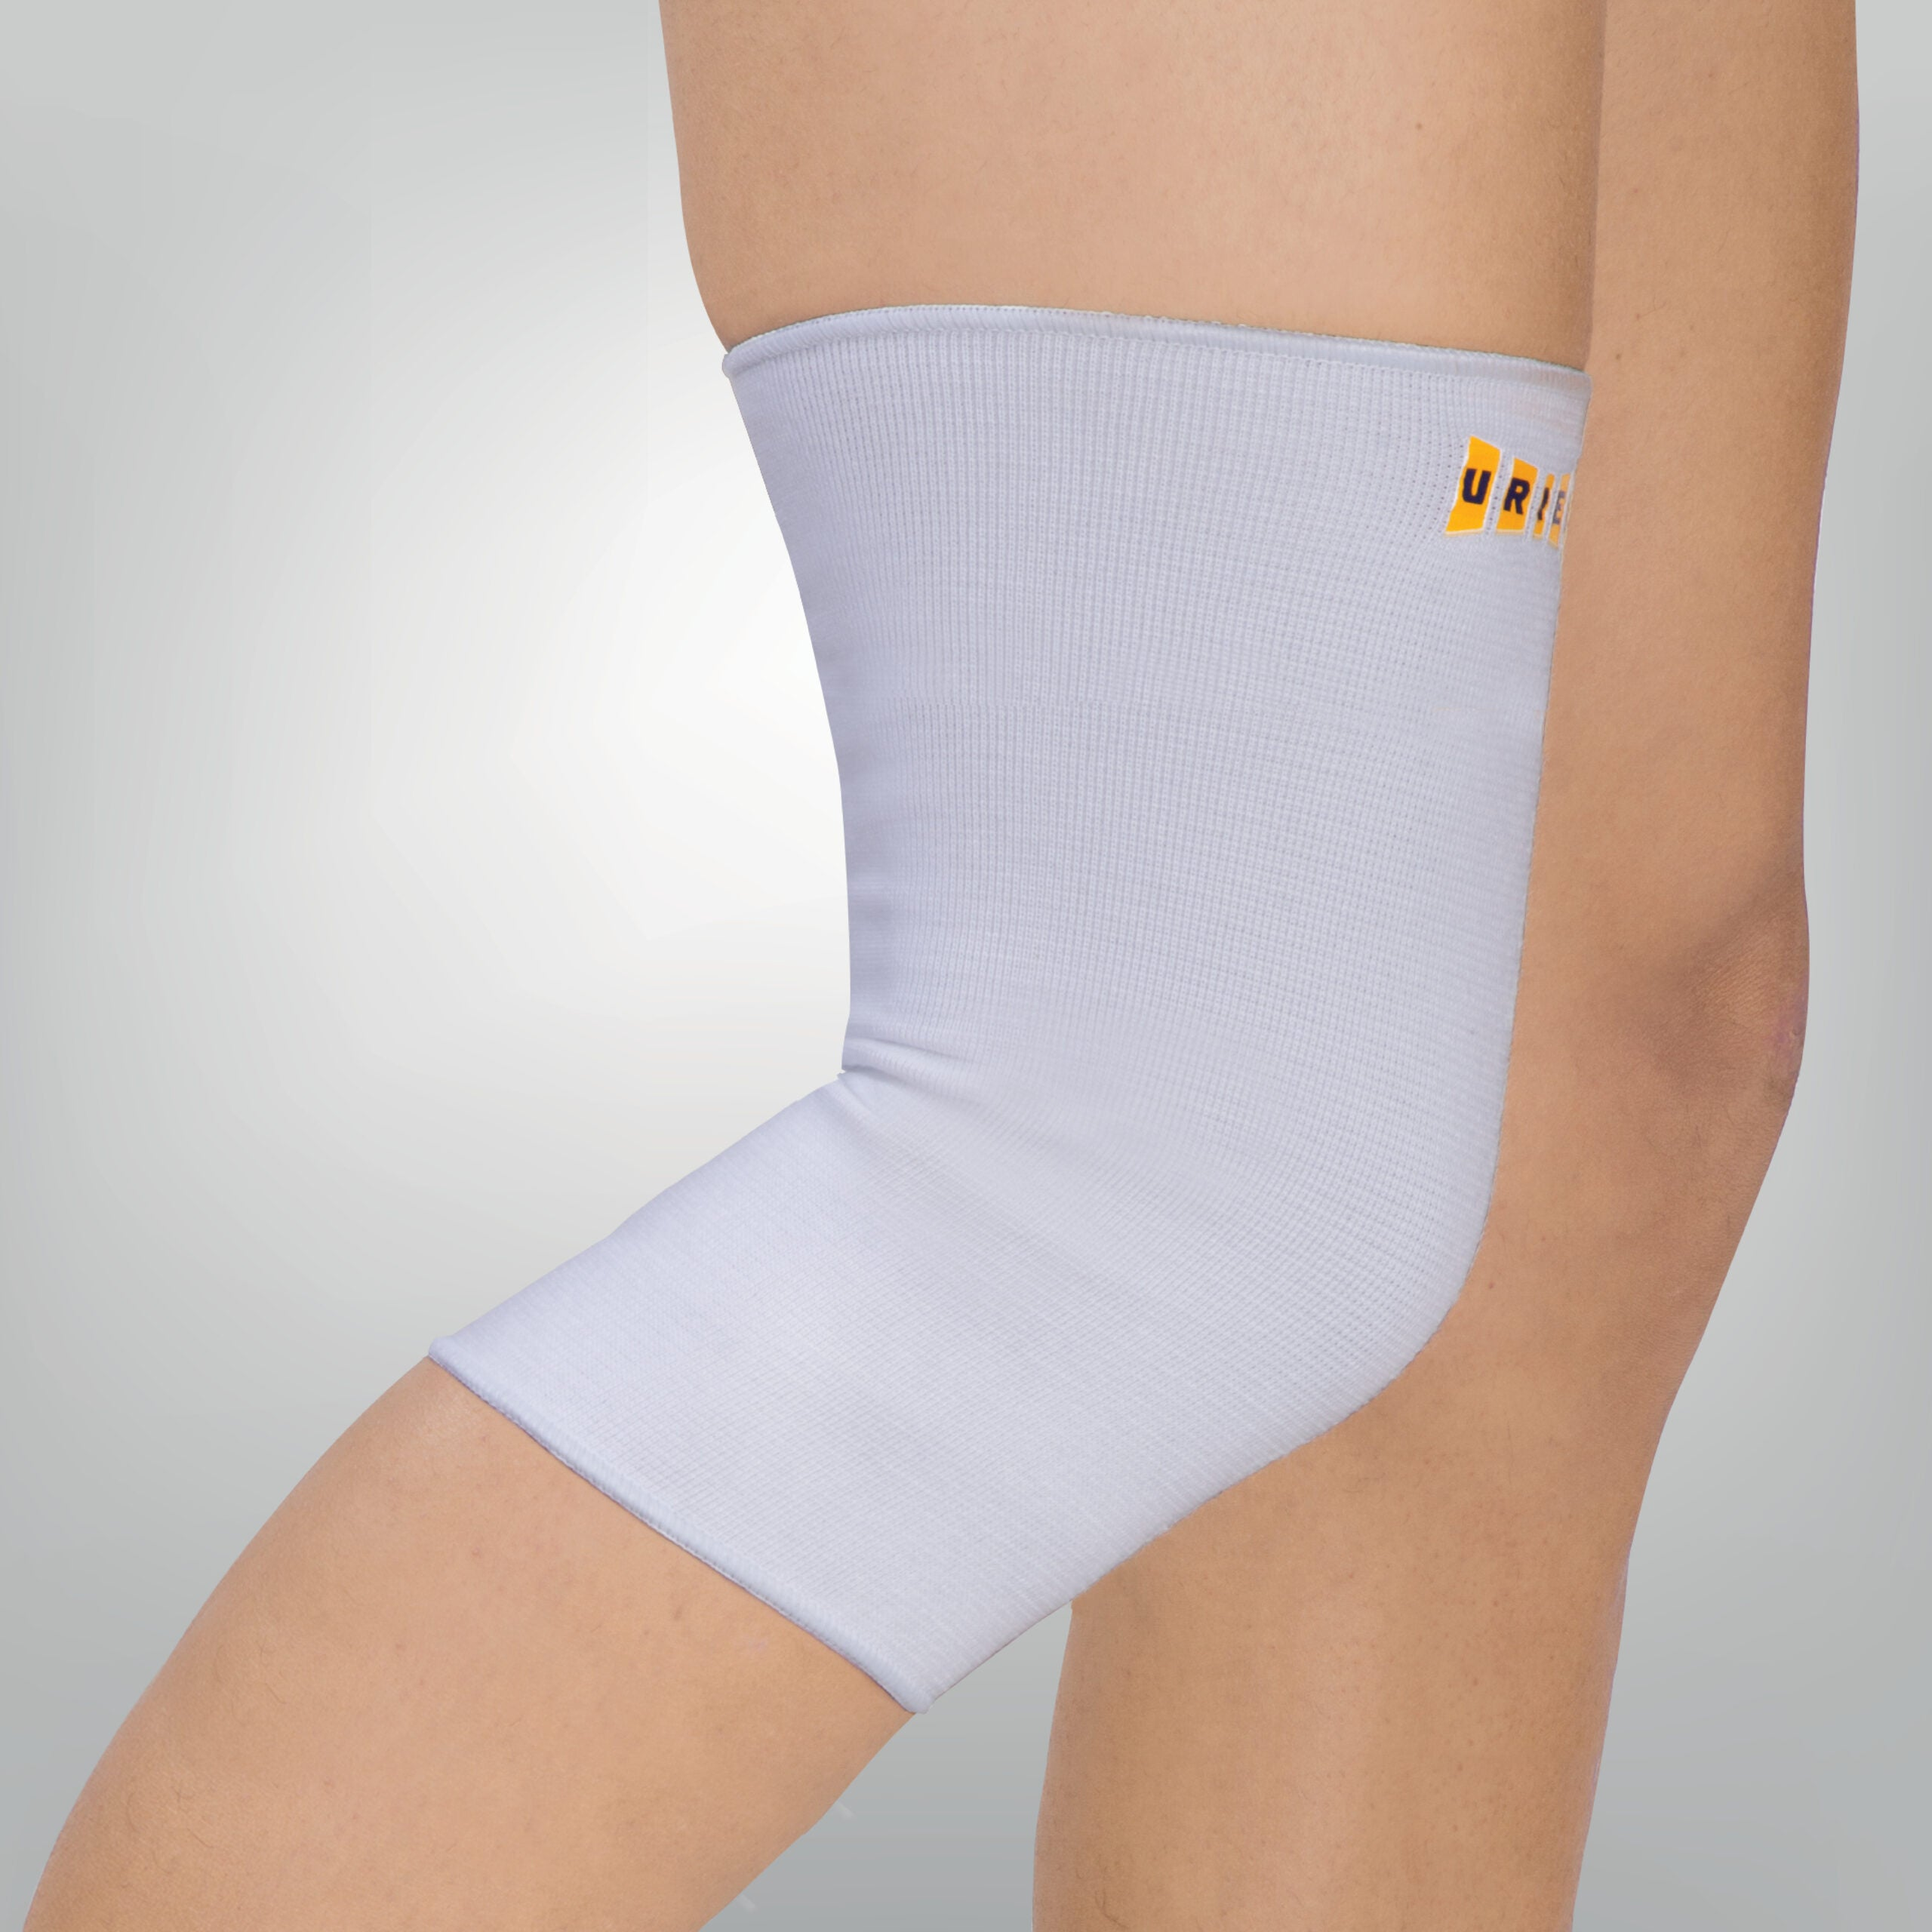
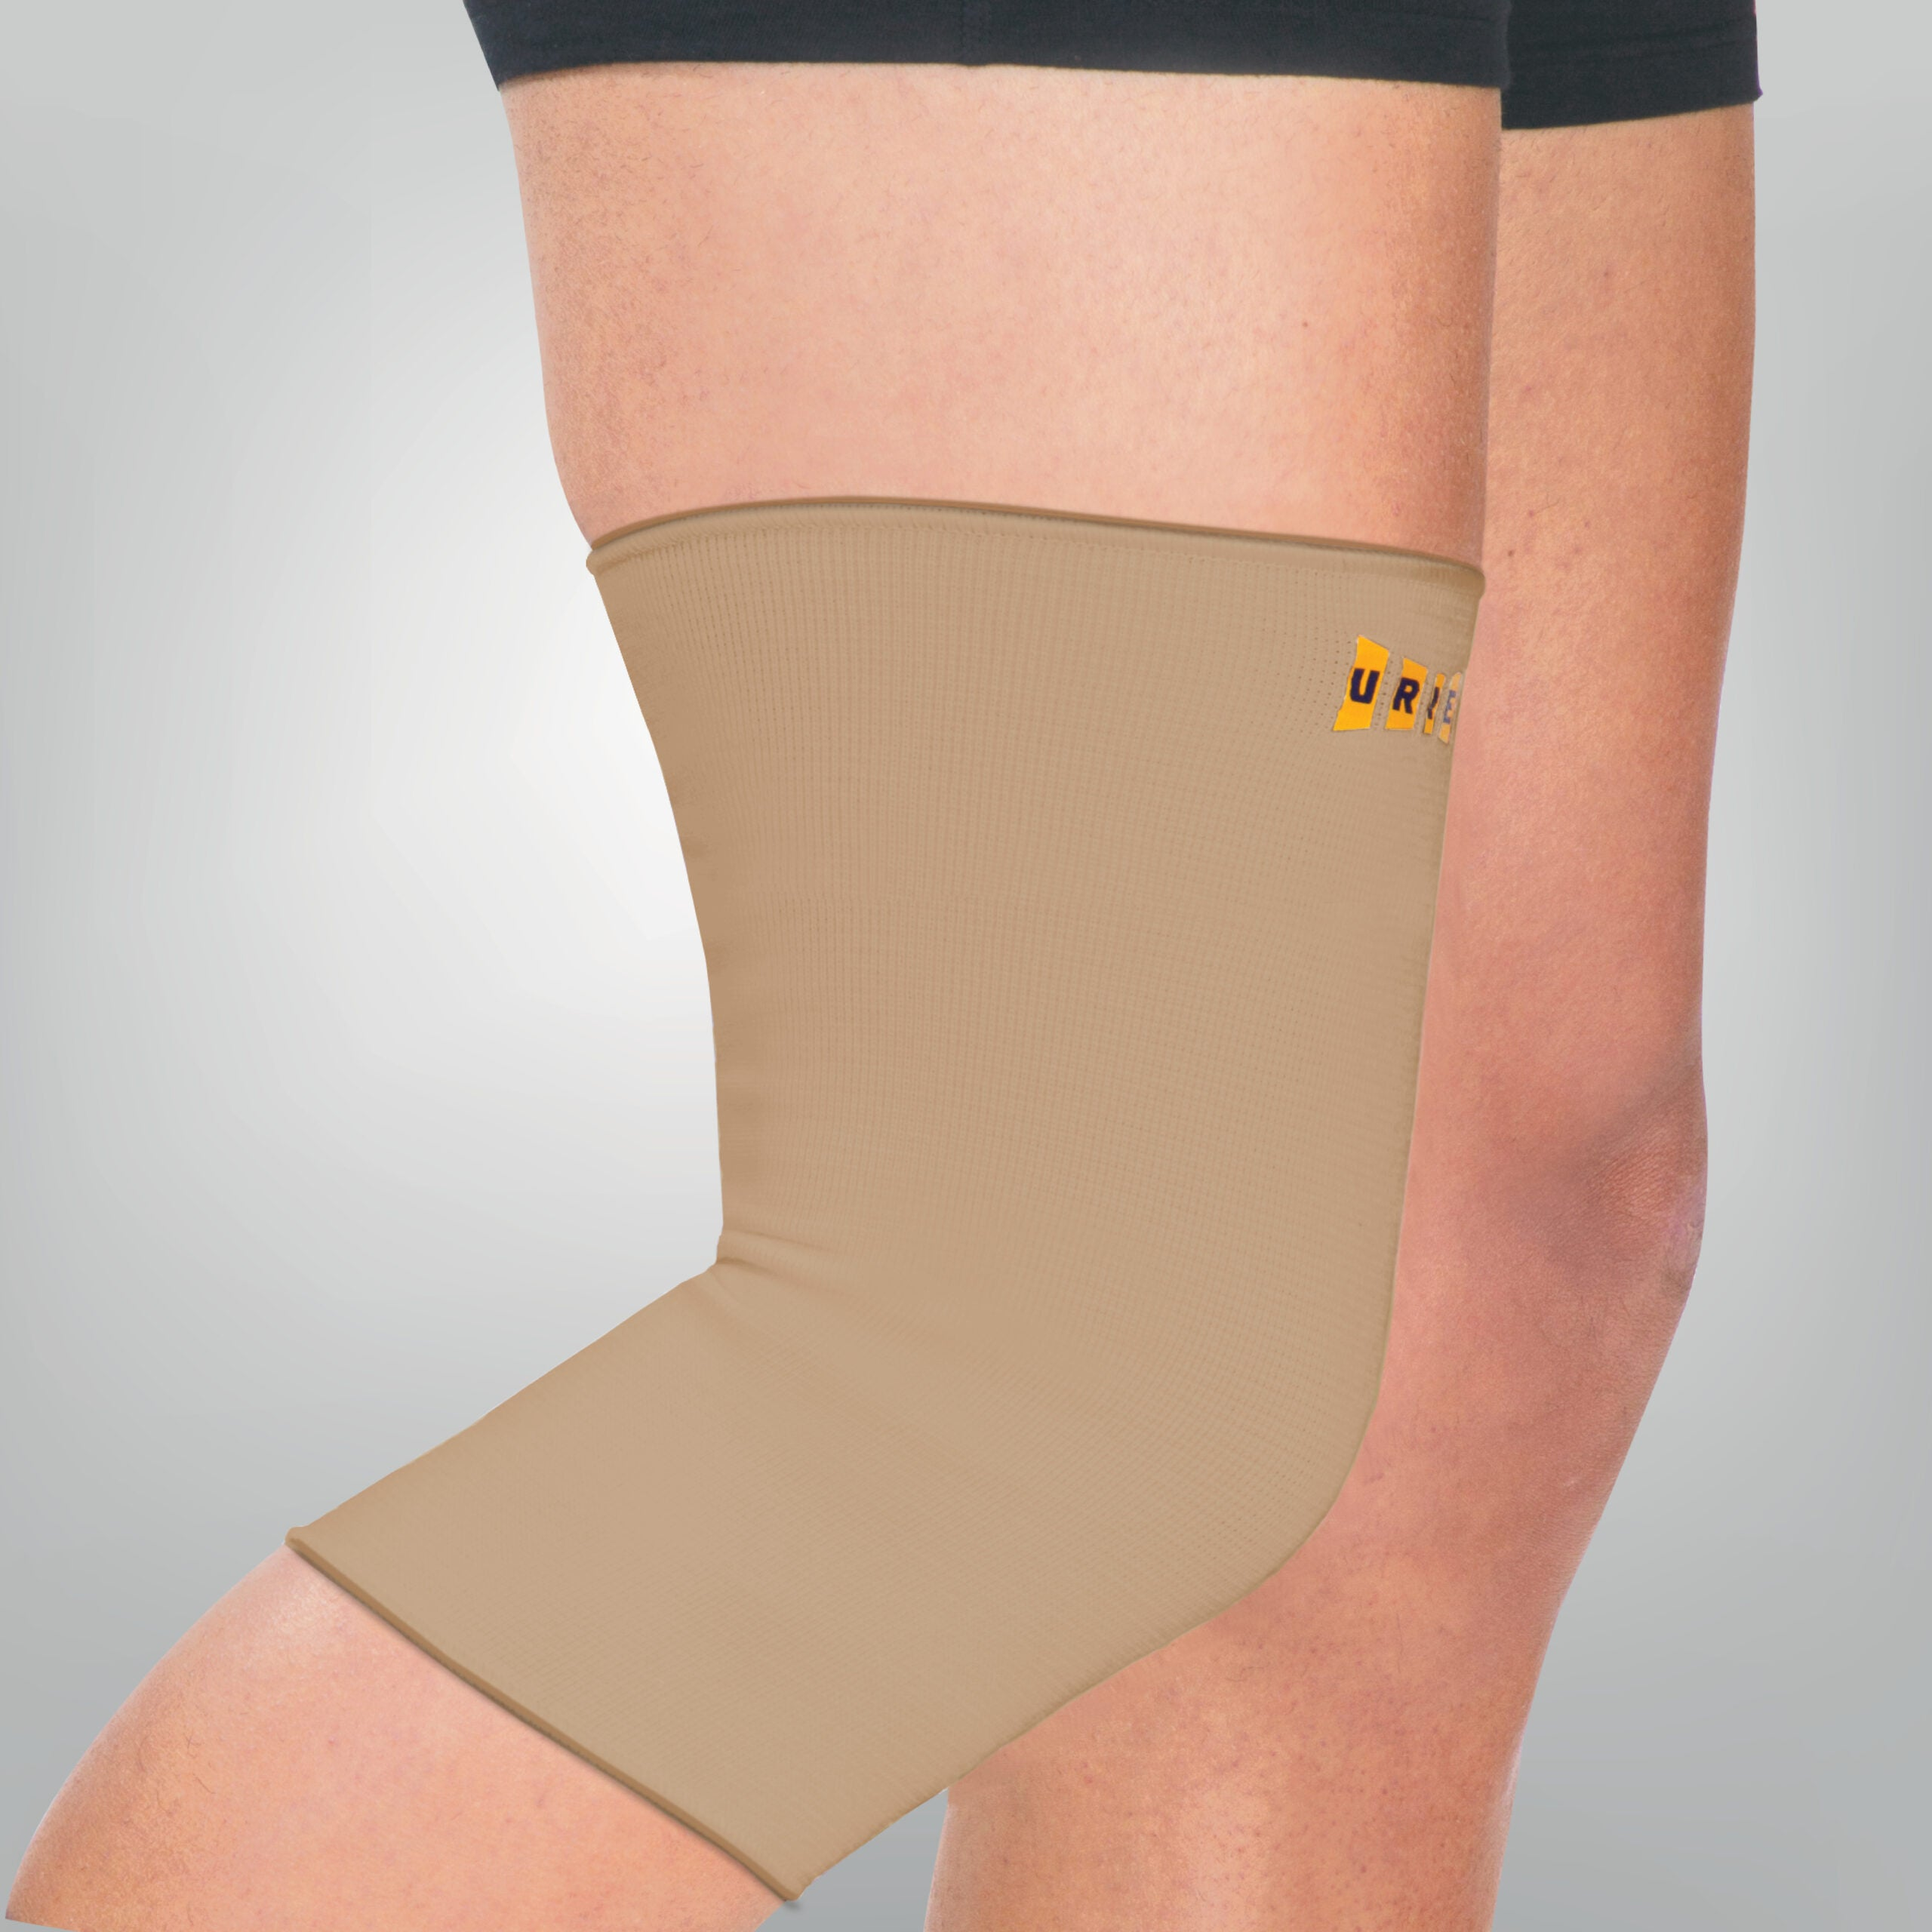
Product-family layout fixes and full color coverage for כוורת catalog
- 806CB, 807CB, 808KT: one large featured photo (black) plus a small
  thumbnail strip showing every color on the live site, instead of a
  uniform small-image grid.
- 807CB: added a "2 units per pack" badge on the main photo, matching
  the packaging graphic the user referenced.
- SC35: added an "L / R" note — the live site only carries this item
  as side-specific SC35R/SC35L, not a plain SC35.
- 45EC: was showing the white variant photo; corrected to the actual
  beige/קרם photo for that SKU.
- Gel insoles (379 MS/CO/WO): switched their photo box to
  object-fit:contain with padding so the diagonal insole shape no
  longer gets cropped by the card frame.

Claude-Session: https://claude.ai/code/session_01E9QvuhBZminJvrtKVH8YY8

diff --git a/kirill/outputs/2026-09-28-כוורת/index.html b/kirill/outputs/2026-09-28-כוורת/index.html
@@ -15,6 +15,8 @@
   --uriel-green: #7cb928;
   --shadow: 0 1px 2px rgba(20,13,65,0.06), 0 8px 24px rgba(20,13,65,0.06);
   --radius: 16px;
+  --note-bg: #eef7de;
+  --note-ink: #4a7a12;
   --font-head: 'Assistant', -apple-system, "Segoe UI", sans-serif;
   --font-body: 'Heebo', -apple-system, "Segoe UI", sans-serif;
   color-scheme: light;
@@ -24,6 +26,7 @@
     --bg: #100a30; --surface: #1a1350; --surface-alt: #251a63;
     --ink: #f3f1ff; --ink-soft: #c6c0ea; --muted: #948ec2; --line: #382d78;
     --shadow: 0 1px 2px rgba(0,0,0,0.3), 0 8px 24px rgba(0,0,0,0.35);
+    --note-bg: #23331a; --note-ink: #a7d66b;
     color-scheme: dark;
   }
 }
@@ -31,6 +34,7 @@
   --bg: #100a30; --surface: #1a1350; --surface-alt: #251a63;
   --ink: #f3f1ff; --ink-soft: #c6c0ea; --muted: #948ec2; --line: #382d78;
   --shadow: 0 1px 2px rgba(0,0,0,0.3), 0 8px 24px rgba(0,0,0,0.35);
+  --note-bg: #23331a; --note-ink: #a7d66b;
   color-scheme: dark;
 }
 * { box-sizing: border-box; }
@@ -58,19 +62,26 @@ body { background: var(--bg); color: var(--ink); font-family: var(--font-body); 
 .grid + .sub-head { margin-top: 28px; }
 
 .card { background: var(--surface); border: 1px solid var(--line); border-radius: var(--radius); box-shadow: var(--shadow); overflow: hidden; display: flex; flex-direction: column; }
-.card .shot { aspect-ratio: 4/5; background: var(--surface-alt); overflow: hidden; }
+.card .shot { position: relative; aspect-ratio: 4/5; background: var(--surface-alt); overflow: hidden; }
 .card .shot img { width: 100%; height: 100%; object-fit: cover; display: block; }
+.card .shot.contain img { object-fit: contain; padding: 14px; }
 .card .shot.missing { display: flex; align-items: center; justify-content: center; color: var(--muted); font-size: 12px; text-align: center; padding: 12px; }
+
+.card .shot .pack-badge { position: absolute; left: 10px; bottom: 10px; display: flex; align-items: center; gap: 6px; background: var(--uriel-green); color: #10230a; font-family: var(--font-head); font-weight: 800; font-size: 12px; padding: 5px 10px 5px 8px; border-radius: 999px; box-shadow: 0 2px 8px rgba(0,0,0,0.25); }
+.card .shot .pack-badge .n { display: inline-flex; align-items: center; justify-content: center; width: 18px; height: 18px; border-radius: 50%; background: #10230a; color: #fff; font-size: 11px; }
 
 .card .swatches { display: flex; flex-wrap: wrap; gap: 6px; padding: 12px; background: var(--surface-alt); }
 .card .swatches .sw { flex: 0 0 auto; width: 52px; display: flex; flex-direction: column; align-items: center; gap: 3px; }
 .card .swatches .sw .thumb { width: 52px; height: 52px; border-radius: 8px; overflow: hidden; border: 1px solid var(--line); background: var(--surface); }
 .card .swatches .sw img { width: 100%; height: 100%; object-fit: cover; display: block; }
 .card .swatches .sw .cname { font-size: 9.5px; color: var(--muted); text-align: center; line-height: 1.15; }
+.card .swatches .sw.active .thumb { border: 2px solid var(--uriel-green); }
 
 .card .body { padding: 14px 14px 16px; display: flex; flex-direction: column; gap: 6px; flex: 1; }
 .card h3 { margin: 0; font-family: var(--font-head); font-weight: 700; font-size: 15px; line-height: 1.3; }
+.card .sku-row { display: flex; align-items: center; gap: 6px; flex-wrap: wrap; }
 .card .sku { font-family: ui-monospace, "SF Mono", Consolas, monospace; background: var(--surface-alt); color: var(--ink-soft); padding: 2px 7px; border-radius: 6px; font-size: 11.5px; align-self: flex-start; }
+.card .note { font-family: var(--font-head); font-weight: 700; background: var(--note-bg); color: var(--note-ink); padding: 2px 8px; border-radius: 6px; font-size: 11px; }
 .card .prices { margin-top: auto; padding-top: 8px; border-top: 1px dashed var(--line); display: flex; flex-direction: column; gap: 4px; }
 .card .price-row { display: flex; justify-content: space-between; align-items: baseline; font-size: 13px; }
 .card .price-row .label { color: var(--muted); font-size: 12px; }
@@ -112,15 +123,17 @@ body { background: var(--bg); color: var(--ink); font-family: var(--font-body); 
 function ils(n) { return n == null ? '—' : '₪' + n.toLocaleString('he-IL', {minimumFractionDigits: 2, maximumFractionDigits: 2}); }
 
 function card(p) {
+  const containCls = p.contain ? ' contain' : '';
   const shot = p.img
-    ? `<div class="shot"><img src="images/${p.img}" alt="${p.product}"></div>`
+    ? `<div class="shot${containCls}"><img src="images/${p.img}" alt="${p.product}"></div>`
     : `<div class="shot missing">אין תמונה זמינה באתר</div>`;
+  const note = p.note ? `<span class="note">${p.note}</span>` : '';
   return `
   <div class="card">
     ${shot}
     <div class="body">
       <h3>${p.product}</h3>
-      <span class="sku">${p.base}</span>
+      <div class="sku-row"><span class="sku">${p.base}</span>${note}</div>
       <div class="prices">
         <div class="price-row consumer"><span class="label">מחיר צרכן</span><span class="val">${ils(p.consumer)}</span></div>
         <div class="price-row yarpa"><span class="label">מחיר ירפא</span><span class="val">${ils(p.yarpa)}</span></div>
@@ -129,14 +142,19 @@ function card(p) {
   </div>`;
 }
 
-function cardMulti(p) {
-  const swatches = p.colors.map(c => `
-    <div class="sw">
+function cardFeatured(p) {
+  const main = p.colors[0];
+  const badge = p.pack
+    ? `<div class="pack-badge"><span class="n">${p.pack}</span><span>יח' באריזה</span></div>`
+    : '';
+  const swatches = p.colors.map((c, i) => `
+    <div class="sw${i === 0 ? ' active' : ''}">
       <div class="thumb"><img src="images/${c.img}" alt="${p.product} - ${c.name}"></div>
       <div class="cname">${c.name}</div>
     </div>`).join('');
   return `
   <div class="card">
+    <div class="shot"><img src="images/${main.img}" alt="${p.product} - ${main.name}">${badge}</div>
     <div class="swatches">${swatches}</div>
     <div class="body">
       <h3>${p.product}</h3>
@@ -176,7 +194,7 @@ const orthoMisc = [
 
 const sport = [
   {base:'SC25', field:'ספורט', product:'ספורט', consumer:199.9, yarpa:124.93125343732814, img:'SC25.jpg'},
-  {base:'SC35', field:'ספורט', product:'ספורט', consumer:199.9, yarpa:124.93125343732814, img:'SC35.jpg'},
+  {base:'SC35', field:'ספורט', product:'ספורט', consumer:199.9, yarpa:124.93125343732814, img:'SC35.jpg', note:'L / R'},
   {base:'SC39', field:'ספורט', product:'ספורט', consumer:349.9, yarpa:218.6765661716914, img:'SC39.jpg'},
   {base:'SC422', field:'ספורט', product:'ספורט', consumer:299.9, yarpa:187.4281285935703, img:'SC422.jpg'},
   {base:'SC95', field:'ספורט', product:'ספורט', consumer:199.9, yarpa:124.93125343732814, img:'SC95.jpg'},
@@ -184,19 +202,21 @@ const sport = [
 ];
 
 const feet = [
-  {base:'379', field:'כף רגל : מדרסים', product:"מדרסי ג'ל MS", consumer:252.9, yarpa:158.0545972701365, img:'379MS.png'},
-  {base:'379', field:'כף רגל : מדרסים', product:"מדרסי ג'ל CO", consumer:252.9, yarpa:158.0545972701365, img:'379CO.png'},
-  {base:'379', field:'כף רגל : מדרסים', product:"מדרסי ג'ל WO", consumer:252.9, yarpa:158.0545972701365, img:'379WO.png'},
+  {base:'379', field:'כף רגל : מדרסים', product:"מדרסי ג'ל MS", consumer:252.9, yarpa:158.0545972701365, img:'379MS.png', contain:true},
+  {base:'379', field:'כף רגל : מדרסים', product:"מדרסי ג'ל CO", consumer:252.9, yarpa:158.0545972701365, img:'379CO.png', contain:true},
+  {base:'379', field:'כף רגל : מדרסים', product:"מדרסי ג'ל WO", consumer:252.9, yarpa:158.0545972701365, img:'379WO.png', contain:true},
 ];
 
 const tapes = [
   {base:'806CB', field:'טייפים', product:'תחבושת נצמדת', consumer:26.9, yarpa:16.811659417029148, colors:[
     {name:'שחור', img:'806CB-B.jpg'}, {name:'קרם', img:'806CB-C.jpg'}, {name:'ירוק', img:'806CB-GR.jpg'}, {name:'ורוד פוקסיה', img:'806CB-P.jpg'},
   ]},
-  {base:'807CB', field:'טייפים', product:'תחבושת נצמדת', consumer:26.9, yarpa:16.811659417029148, colors:[
-    {name:'ורוד פוקסיה', img:'807CB-P.jpg'}, {name:'כחול', img:'807CB-BL.jpg'}, {name:'קרם', img:'807CB-C.jpg'}, {name:'שחור', img:'807CB-B.jpg'},
+  {base:'807CB', field:'טייפים', product:'תחבושת נצמדת', consumer:26.9, yarpa:16.811659417029148, pack:2, colors:[
+    {name:'שחור', img:'807CB-B.jpg'}, {name:'ורוד פוקסיה', img:'807CB-P.jpg'}, {name:'כחול', img:'807CB-BL.jpg'}, {name:'קרם', img:'807CB-C.jpg'},
   ]},
-  {base:'808KT', field:'טייפים', product:'קיניזיו טייפ', consumer:100.9018, yarpa:63.06047197640118, img:'808KT.jpg'},
+  {base:'808KT', field:'טייפים', product:'קיניזיו טייפ', consumer:100.9018, yarpa:63.06047197640118, colors:[
+    {name:'שחור', img:'808KT-B.jpg'}, {name:'קרם', img:'808KT-C.jpg'}, {name:'כחול', img:'808KT-BL.jpg'}, {name:'ורוד פוקסיה', img:'808KT-P.jpg'},
+  ]},
 ];
 
 document.getElementById('grid-35').innerHTML = family35.map(card).join('');
@@ -205,7 +225,7 @@ document.getElementById('grid-95').innerHTML = family95.map(card).join('');
 document.getElementById('grid-ortho-misc').innerHTML = orthoMisc.map(card).join('');
 document.getElementById('grid-sport').innerHTML = sport.map(card).join('');
 document.getElementById('grid-feet').innerHTML = feet.map(card).join('');
-document.getElementById('grid-tapes').innerHTML = tapes.map(p => p.colors ? cardMulti(p) : card(p)).join('');
+document.getElementById('grid-tapes').innerHTML = tapes.map(p => p.colors ? cardFeatured(p) : card(p)).join('');
 
 const orthoCount = family35.length + family45.length + family95.length + orthoMisc.length;
 document.getElementById('count-ortho').textContent = orthoCount + ' מוצרים';
